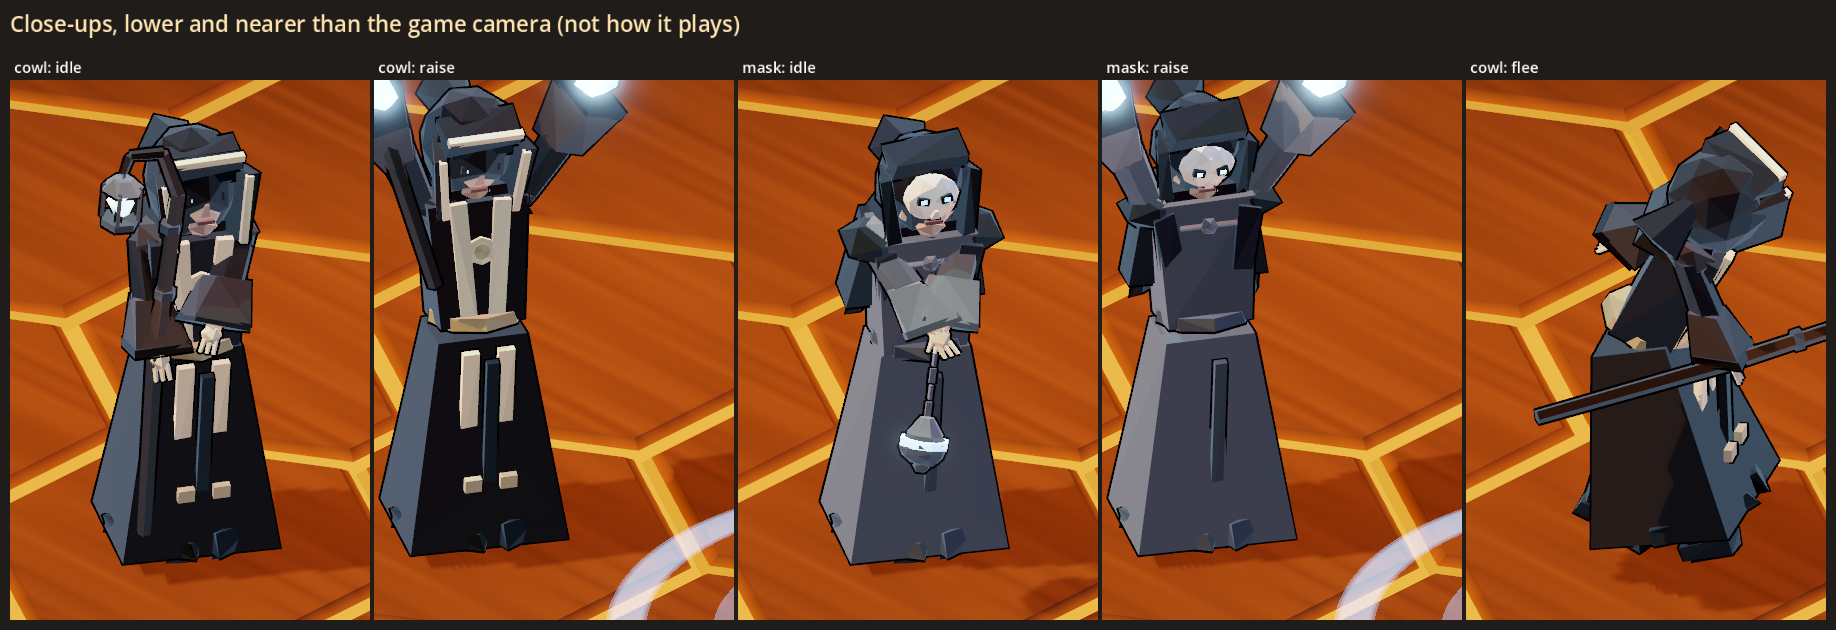
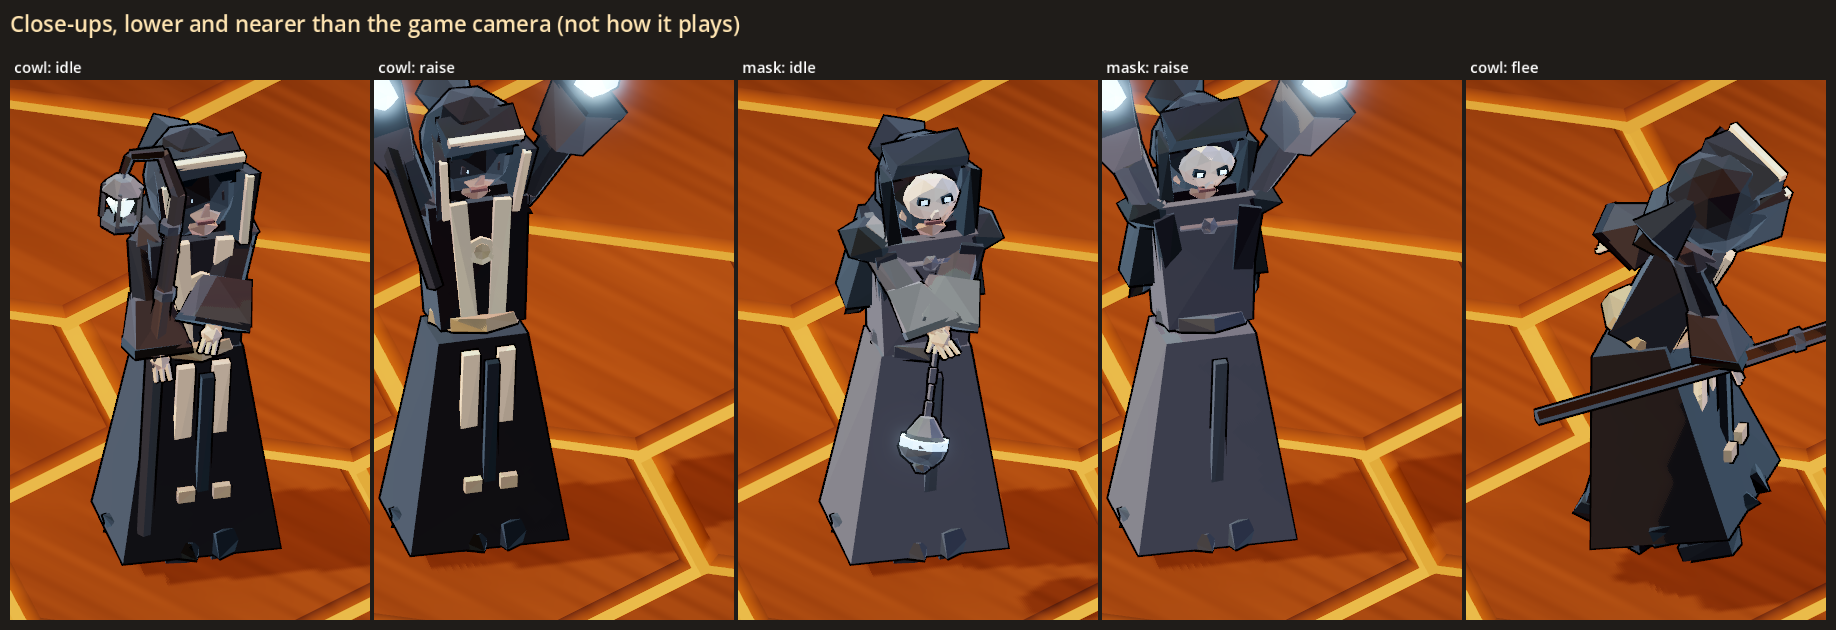
Necro look: no ring under a rising zombie (the user: Drop the ring)

Changed region(s): [[0.7141, 0.8143, 0.8072, 0.9952], [0.3105, 0.8143, 0.4036, 0.9952]]

diff --git a/docs/design/necro-look.md b/docs/design/necro-look.md
@@ -21,6 +21,7 @@ on eyes, hands, flames and pages, and the rim (the faceted fresnel) on the raise
 - **A thin torso**: "And let's make it a thin torso." The coat now tapers from a narrow chest (0.42 wide, was 0.56) to a
   thin waist (0.26, was 0.46) and is shallower; the shoulders, arms and legs moved in to match, and a hunched upper back
   was added. The user: "Better!"
+- **No ring under a rising zombie**: "Drop the ring." The motes rising off it stay as the "it will get up" tell.
 
 ## What the user is choosing
 
